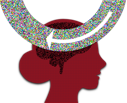
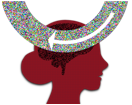
new thumbs, text

Changed region(s): [[0.0, 0.0, 0.9921, 1.0], [0.4488, 0.5243, 0.4724, 0.5534], [0.4252, 0.6117, 0.4488, 0.6408]]

diff --git a/portfolio/blog/colormath.html b/portfolio/blog/colormath.html
@@ -9,7 +9,7 @@
   <!-- meta properties for Facebook-->
   <meta property="og:type"          content="article" />
   <meta property="og:site_name"      content="Katie In Brooklyn" />
-   <meta property="og:title"         content="How To Make A Color Scheme, Part 1 of 2" /> <!--title-->
+   <meta property="og:title"         content="How To Make A Four-Color Scheme" /> <!--title-->
   <meta property="og:description"   content="For your webpage, logo or bedroom, you might be scared your color choices don't pass graphics muster. I say if it feels good do it, but for you perfectionists here is a tool for a fail-proof color palette." /> <!--description-->
   <meta property="og:url"           content="http://www.katieinbrooklyn.com/blog/colormath.html" /> <!--url-->
   <meta property="og:image"         content="http://www.katieinbrooklyn.com/blog/images/thumb/howto_pt1.png"/>  <!--image-->
@@ -53,7 +53,7 @@
 
  <!-- article-->
  
-  <div class="title">How To Make A Color Scheme,<br> Pt 1 of 2</div>
+  <div class="title">How To Make A Four-Color Scheme</div>
    <div class="date">Mon Feb 29, 2016</div> 
 
 <!-- share buttons -->
@@ -119,7 +119,7 @@ This tetradic color scheme shown (left-right) plain, covered in white at 50% opa
   </figure>
   
 
-<p><br>Now you've mastered 4-color schema!<br><br><a href="colormathPt2.html">How To Make A Color Scheme, Part 2 of 2.</a>
+<p><br>Now you've mastered 4-color schema!<br><br><a href="colormathPt2.html">How To Make 2 and 3-Color Schemes.</a>
 </p>
 </figcaption>
   </figure>

diff --git a/portfolio/js/data.js b/portfolio/js/data.js
@@ -44,8 +44,8 @@ var data =
               blurb: '"When they played poker they played all night. When they smoked'
             },
             {
-              title: 'How to Create A Color Scheme, Part 2 of 2',
-              subtitle: 'Simplifying with 3-color and 2-color schemes.',
+              title: 'How to Create 2 or 3-Color Schemes',
+              subtitle: 'Interactive tools included.',
               link: 'colormathPt2.html',
               image: 'thumb/colorscheme2.png',
               date: 'Feb 29, 2016',
@@ -68,8 +68,8 @@ var data =
               blurb: "They are incredible."
             },
             {
-              title: 'How to Create A Color Scheme, Part 1 of 2',
-              subtitle: '4-color schemes. Interactive tool included.',
+              title: 'How to Create Four-Color Schemes',
+              subtitle: 'Interactive tool included.',
               link: 'colormath.html',
               image: 'thumb/colorscheme.png',
               date: 'Feb 29, 2016',
@@ -179,8 +179,8 @@ var data =
               blurb: 'See how bike design changed with the times.'
             },
             {
-              title: 'How to Create a Color Scheme, Part 1 of 2',
-              subtitle: '4-color schemes. Intereactive tool included.',
+              title: 'How to Create Four-Color Schemes',
+              subtitle: 'Intereactive tool included.',
               link: 'colormath.html',
               image: 'thumb/colorscheme.png',
               date: 'Feb 29, 2016',

diff --git a/portfolio/blog/colormathPt2.html b/portfolio/blog/colormathPt2.html
@@ -53,14 +53,14 @@
 
  <!-- article-->
  
-  <div class="title">How To Make A Color Scheme,<br> Pt 2 of 2</div>
+  <div class="title">How To Make 2 and 3-Color Schemes</div>
    <div class="date">Mon Feb 29, 2016</div> 
 
 <!-- share buttons -->
       <span id="twitter"><a href="https://twitter.com/share" class="twitter-share-button" data-url="http://www.katieinbrooklyn.com/blog/colormathPt2.html">
           Tweet</a></span>
       <span class="fb-like" data-share="true" data-width="450" data-show-faces="false"></span>
-  <p>If you haven't yet, check out <a href="colormath.html">How To Make A Color Scheme, Part 1,</a> which explains 4-color schemes. Stay here to learn about two and three color schemes. </p> 
+  <p>If you haven't yet, check out <a href="colormath.html">How To Make Four-Color Schemes</a>. Stay here to learn about two and three color schemes. </p> 
 
 <h3>1. Pick a color wheel and starting color</h3>
   <p>As before, find a color wheel and pick a starting color.</p>
@@ -116,7 +116,7 @@ Complementary schemes use colors 180 degrees apart. A very popular scheme for lo
 
   <p><br><br>Now go out and make something colorful!</p>
 <p><br>
-  <a href="colormath.html">How To Make A Color Scheme, Part 1 of 2.</a></p>
+  <a href="colormath.html">How To Make a Four Color Scheme</a></p>
   </figcaption>
   </figure>
   <img src="images/colorwheel/complementary_wings2.png" id="complementary" class="rotate" style="position:absolute; cursor:pointer" />

diff --git a/portfolio/css/blog.css b/portfolio/css/blog.css
@@ -62,7 +62,7 @@ img {
   display: inline;
 }
 
-.col-sm-9, .col-md-9, .col-sm-8, .col-md-8 {
+.col-sm-9, .col-md-9, .col-sm-8, .col-md-8 { /* article body */
   background-color: #fff;
 }
 
@@ -83,7 +83,7 @@ img {
 }
 
 .img_border img {
-  border: 3px solid white;
+  border: 1px solid white;
 }
 
 .fb-like {
@@ -96,11 +96,6 @@ img {
 
 #twitter iframe {
   margin-bottom: -5px; /* hack to make it same parallel as fb button */
-}
-
-/*  Side Menus */ 
-#popular{
-  zmargin-bottom: 100px;
 }
 
 
@@ -117,7 +112,6 @@ img {
 .menu_item {
   margin: 3px 0px 3px;
   background-color: #e2e8ea; f9fafa; F2F5F7;
-  zborder: 1px solid #fcfbfa;
 }
 
 .menu_item:hover {
@@ -139,7 +133,6 @@ img {
   max-width: 155px;
   height: 105px;
   float: left;
-  zbackground: #f1eee8;
 }
 
 .clearfix {

diff --git a/portfolio/css/style.css b/portfolio/css/style.css
@@ -39,20 +39,21 @@ a, a:hover {
 
 #site_title {
   font-family: 'Merriweather Sans', 'Open Sans', Helvetica, sans-serif;
-  font-size: 17px;
+  font-size: 18px;
   font-weight: 800;
-  letter-spacing: -3px;
+  letter-spacing: -2px;
   float: left;
   margin: 0px 30px 25px 0px;
-}
-
-#name, .name {                /* my name color */
-  color: #CD3300; D7653F;009ACD; #f3b128; 
 }
 
 #site_title a {        /* UX DESIGNER color */
   color: #CD3300; 46b7fa;
  }
+
+#name, .name {                /* my name color */
+}
+
+
 
 
 /*   Main menu/global nav */
